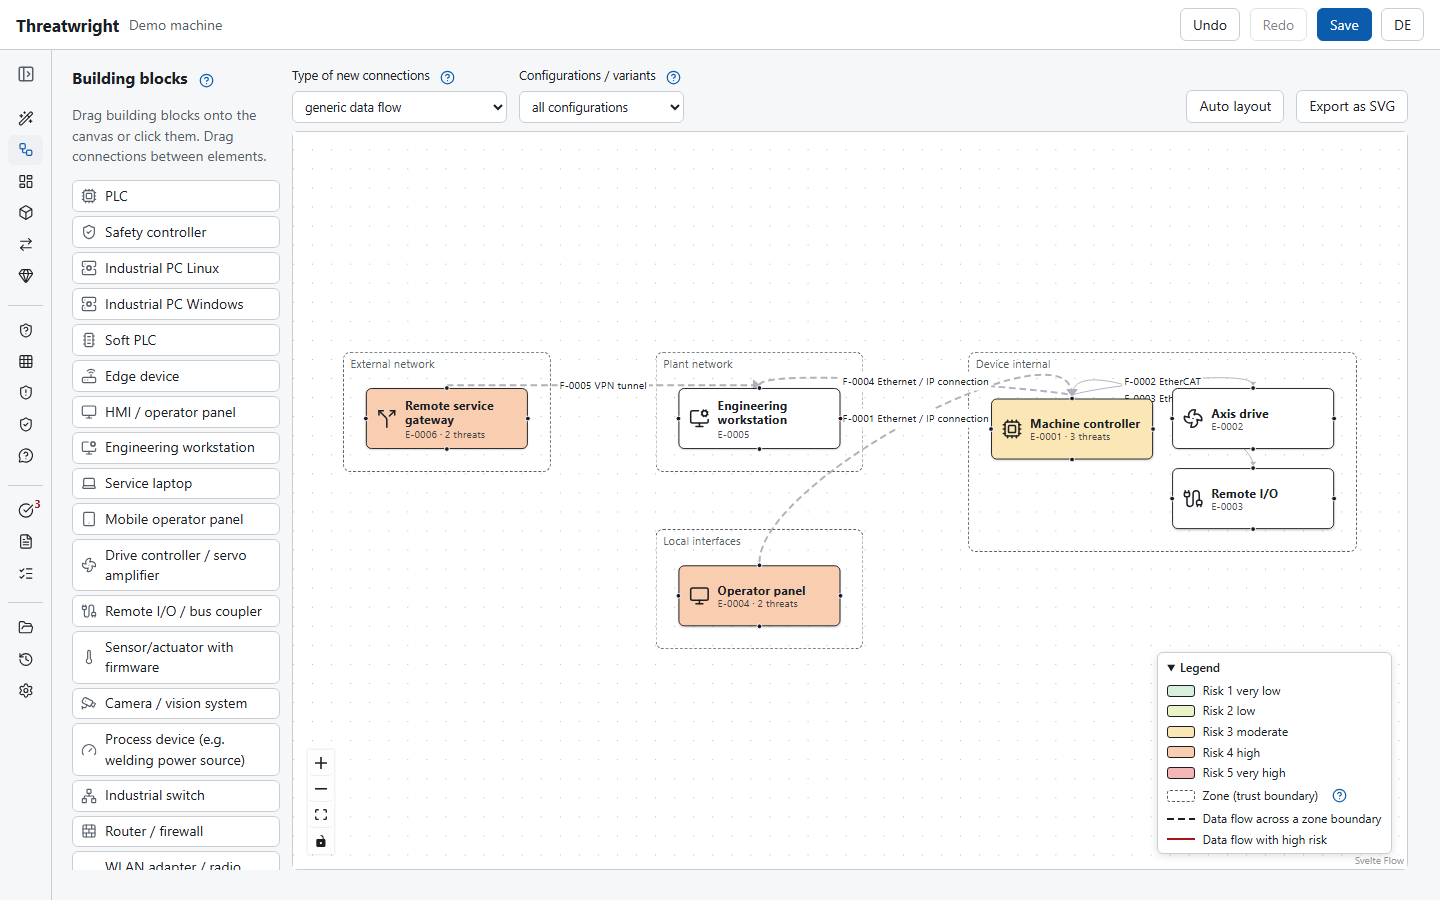
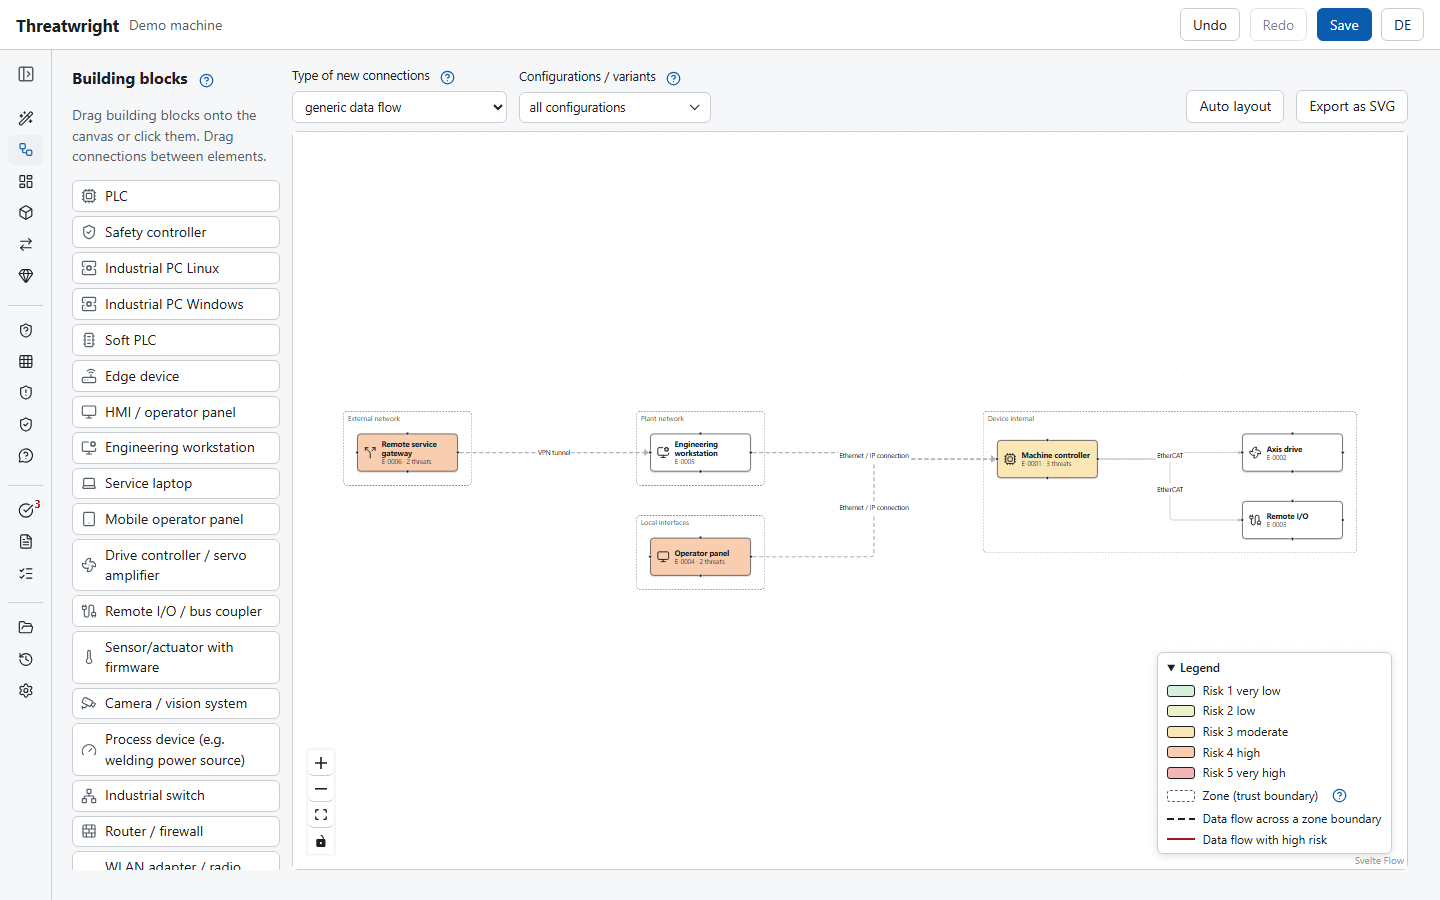
Diagram: multi-select variant filter, anchors follow the geometry (no jump to the top handle), orthogonal routed connections with label space in auto layout, controls readable in dark mode

diff --git a/app/src/lib/diagram/Canvas.svelte b/app/src/lib/diagram/Canvas.svelte
@@ -23,7 +23,7 @@
     onselect,
   }: {
     flowType: string
-    configuration: string
+    configuration: string[] // selected variants; empty = all
     types: ElementType[]
     onselect: (collection: 'elements' | 'flows', id: string | null) => void
   } = $props()
@@ -37,8 +37,17 @@
   let nodes = $state.raw<Node[]>([])
   let edges = $state.raw<Edge[]>([])
 
+  // objects without variants belong to every variant
   const visible = (configs: string[] | undefined) =>
-    !configuration || !configs?.length || configs.includes(configuration)
+    !configuration.length || !configs?.length || configs.some((c) => configuration.includes(c))
+
+  /** Handles facing each other: side by side -> right/left, above each other -> bottom/top. */
+  function sides(a: { x: number; y: number }, b: { x: number; y: number }): [string, string] {
+    const dx = b.x - a.x
+    const dy = b.y - a.y
+    if (Math.abs(dx) * H >= Math.abs(dy) * W) return dx >= 0 ? ['right', 'left'] : ['left', 'right']
+    return dy >= 0 ? ['bottom', 'top'] : ['top', 'bottom']
+  }
 
   function zoneNodes(positions: Map<string, { x: number; y: number }>): Node[] {
     const out: Node[] = []
@@ -94,11 +103,20 @@
     }))
     nodes = [...zoneNodes(positions), ...elementNodes]
     const zoneOf = new Map(app.objects('elements').map((e) => [e.id, e.zone]))
-    edges = app.objects('flows').map((f) => ({
+    edges = app.objects('flows').map((f) => {
+      // anchors follow the geometry, so a connection never jumps to a far side of the box
+      const [sourceHandle, targetHandle] =
+        positions.has(f.source) && positions.has(f.target)
+          ? sides(positions.get(f.source)!, positions.get(f.target)!)
+          : ['right', 'left']
+      return {
       id: f.id,
       source: f.source,
       target: f.target,
-      label: `${f.id} ${f.title}`,
+      sourceHandle,
+      targetHandle,
+      type: 'smoothstep',
+      label: f.title,
       markerEnd: { type: MarkerType.ArrowClosed },
       markerStart: f.bidirectional ? { type: MarkerType.ArrowClosed } : undefined,
       hidden: !visible(f.configurations),
@@ -106,7 +124,8 @@
         (model.max_risks[f.id] ?? 0) >= 4 ? 'high-risk' : '',
         zoneOf.get(f.source) !== zoneOf.get(f.target) ? 'cross-zone' : '',
       ].join(' '),
-    }))
+      }
+    })
   }
 
   /** Smallest zone box containing the point; zone boxes may nest or overlap. */
@@ -215,12 +234,20 @@
     const elk = new ELK()
     const elements = app.objects('elements')
     const leaf = (id: string) => ({ id, width: W, height: H })
+    // generous spacing: room for the connection labels and for lines between the boxes
+    const spacing = {
+      'elk.spacing.nodeNode': '50',
+      'elk.layered.spacing.nodeNodeBetweenLayers': '90',
+      'elk.spacing.edgeNode': '30',
+      'elk.spacing.edgeEdge': '20',
+      'elk.layered.spacing.edgeNodeBetweenLayers': '25',
+    }
     // Zones become compound nodes so ELK keeps trust boundaries apart; the padding
     // matches the box zoneNodes() draws around the members afterwards.
     const zones = (app.model?.meta.zones ?? [])
       .map((z) => ({
         id: `zone:${z.id}`,
-        layoutOptions: { 'elk.padding': `[top=${PAD + 14},left=${PAD},bottom=${PAD},right=${PAD}]` },
+        layoutOptions: { ...spacing, 'elk.padding': `[top=${PAD + 14},left=${PAD},bottom=${PAD},right=${PAD}]` },
         children: elements.filter((e) => e.zone === z.id).map((e) => leaf(e.id)),
       }))
       .filter((z) => z.children.length)
@@ -228,14 +255,21 @@
     const graph = await elk.layout({
       id: 'root',
       layoutOptions: {
+        ...spacing,
         'elk.algorithm': 'layered',
         'elk.direction': 'RIGHT',
         'elk.hierarchyHandling': 'INCLUDE_CHILDREN',
-        'elk.spacing.nodeNode': '60',
-        'elk.layered.spacing.nodeNodeBetweenLayers': '100',
+        'elk.edgeRouting': 'ORTHOGONAL',
+        'elk.edgeLabels.inline': 'true',
       },
       children: [...zones, ...elements.filter((e) => !zoned.has(e.id)).map((e) => leaf(e.id))],
-      edges: app.objects('flows').map((f) => ({ id: f.id, sources: [f.source], targets: [f.target] })),
+      // labels with their size, so ELK keeps space for them between the layers
+      edges: app.objects('flows').map((f) => ({
+        id: f.id,
+        sources: [f.source],
+        targets: [f.target],
+        labels: [{ text: f.title, width: f.title.length * 6.5 + 12, height: 18 }],
+      })),
     })
     const layout: Record<string, { x: number; y: number }> = {}
     for (const c of graph.children ?? []) {
@@ -255,6 +289,7 @@
     bind:edges
     {nodeTypes}
     connectionMode={ConnectionMode.Loose}
+    colorMode="system"
     deleteKey={null}
     fitView
     fitViewOptions={{ maxZoom: 1 }}
@@ -292,7 +327,15 @@
     color: var(--text);
     font-size: 11px;
   }
+  /* xyflow's own controls and labels in the app's colours (light and dark) */
   .canvas :global(.svelte-flow) {
     --xy-background-color: var(--surface);
+    --xy-controls-button-background-color: var(--surface);
+    --xy-controls-button-background-color-hover: var(--surface-2);
+    --xy-controls-button-color: var(--text);
+    --xy-controls-button-color-hover: var(--text);
+    --xy-controls-button-border-color: var(--border);
+    --xy-edge-label-background-color: var(--surface);
+    --xy-edge-label-color: var(--text);
   }
 </style>

diff --git a/app/src/lib/diagram/Diagram.svelte b/app/src/lib/diagram/Diagram.svelte
@@ -12,7 +12,17 @@
 
   let types = $state<ElementType[]>([])
   let flowType = $state('')
-  let configuration = $state('')
+  let configuration = $state<string[]>([]) // selected variants; empty = all
+  const configs = $derived(app.model?.meta.configurations ?? [])
+  // elements with variants of which none is selected; unassigned ones belong to every variant
+  const hiddenCount = $derived(
+    configuration.length
+      ? app.objects('elements').filter((e) => e.configurations?.length && !e.configurations.some((c: string) => configuration.includes(c))).length
+      : 0,
+  )
+  function toggleConfig(id: string, on: boolean) {
+    configuration = on ? [...configuration, id] : configuration.filter((c) => c !== id)
+  }
   let selected = $state<{ collection: 'elements' | 'flows'; id: string } | null>(null)
   let canvas: Canvas | undefined = $state()
   const lang = $derived(app.lang)
@@ -63,13 +73,36 @@
           {#each flowTypes as t}<option value={t.id}>{t.name[lang]}</option>{/each}
         </select>
       </label>
-      <label>
+      <div class="filter">
         <span>{tr(lang, 'configurations')} <Info term="configurations" /></span>
-        <select bind:value={configuration}>
-          <option value="">{tr(lang, 'all_configurations')}</option>
-          {#each app.model?.meta.configurations ?? [] as c}<option value={c.id}>{c.id} {c.title}</option>{/each}
-        </select>
-      </label>
+        <details class="dropdown" data-testid="config-filter">
+          <summary>
+            {configuration.length
+              ? configs.filter((c) => configuration.includes(c.id)).map((c) => c.title || c.id).join(', ')
+              : tr(lang, 'all_configurations')}
+            {#if hiddenCount}<span class="muted">· {hiddenCount} {tr(lang, 'hidden_count')}</span>{/if}
+          </summary>
+          <div class="menu">
+            {#each configs as c (c.id)}
+              <label class="check">
+                <input
+                  type="checkbox"
+                  checked={configuration.includes(c.id)}
+                  onchange={(e) => toggleConfig(c.id, e.currentTarget.checked)}
+                  data-testid="config-{c.id}"
+                />
+                {c.id} {c.title}
+              </label>
+            {:else}
+              <p class="muted">{tr(lang, 'no_configurations')}</p>
+            {/each}
+            {#if configuration.length}
+              <button type="button" class="link" onclick={() => (configuration = [])}>{tr(lang, 'show_all')}</button>
+            {/if}
+            <p class="muted small">{tr(lang, 'config_filter_help')}</p>
+          </div>
+        </details>
+      </div>
       <span class="spacer"></span>
       <button onclick={() => canvas?.autoLayout()} data-testid="auto-layout">{tr(lang, 'auto_layout')}</button>
       <button onclick={exportSvg}>{tr(lang, 'export_svg')}</button>
@@ -151,6 +184,62 @@
   }
   .toolbar select {
     width: auto;
+  }
+  .filter {
+    display: grid;
+    gap: 0.15rem;
+    font-size: 0.9em;
+    position: relative;
+  }
+  .dropdown summary {
+    list-style: none;
+    cursor: pointer;
+    min-width: 12rem;
+    padding: 0.35rem 1.8rem 0.35rem 0.6rem;
+    border: 1px solid var(--border);
+    border-radius: var(--radius);
+    background: var(--surface);
+    position: relative;
+  }
+  .dropdown summary::after {
+    content: '';
+    position: absolute;
+    right: 0.7rem;
+    top: 50%;
+    width: 0.4rem;
+    height: 0.4rem;
+    border-right: 1.5px solid currentColor;
+    border-bottom: 1.5px solid currentColor;
+    transform: translateY(-70%) rotate(45deg);
+  }
+  .dropdown[open] summary {
+    border-color: var(--accent);
+  }
+  .menu {
+    position: absolute;
+    z-index: 10;
+    margin-top: 0.25rem;
+    min-width: 16rem;
+    max-width: 24rem;
+    display: grid;
+    gap: 0.35rem;
+    padding: 0.6rem 0.75rem;
+    background: var(--surface);
+    border: 1px solid var(--border);
+    border-radius: var(--radius);
+    box-shadow: 0 8px 24px rgb(0 0 0 / 0.18);
+  }
+  .menu .check {
+    display: flex;
+    gap: 0.45rem;
+    align-items: center;
+  }
+  .menu .check input {
+    width: auto;
+  }
+  .menu .small {
+    margin: 0;
+    font-size: 0.85em;
   }
   .spacer {
     flex: 1;

diff --git a/app/src/i18n.ts b/app/src/i18n.ts
@@ -42,6 +42,11 @@ const de = {
   reload_discard: 'Neu laden und eigene Änderungen verwerfen',
   ignore: 'Ignorieren',
   reloaded: 'Externe Änderungen geladen',
+  hidden_count: 'ausgeblendet',
+  show_all: 'Alle anzeigen',
+  no_configurations: 'Keine Ausbaustufen / Varianten angelegt (Einrichtung, Schritt 1).',
+  config_filter_help:
+    'Zeigt Elemente und Verbindungen der gewählten Varianten. Was keiner Variante zugeordnet ist, gilt für alle und bleibt sichtbar.',
   current_project: 'Geöffnetes Projekt',
   download_zip: 'Als .zip herunterladen',
   download_help: 'Lädt den gespeicherten Stand des Projekts herunter, z. B. um lokal oder mit Git weiterzuarbeiten.',
@@ -273,6 +278,11 @@ const en: Record<Key, string> = {
   reload_discard: 'Reload and discard my changes',
   ignore: 'Ignore',
   reloaded: 'External changes loaded',
+  hidden_count: 'hidden',
+  show_all: 'Show all',
+  no_configurations: 'No configurations / variants defined (setup, step 1).',
+  config_filter_help:
+    'Shows elements and connections of the selected variants. Anything not assigned to a variant applies to all and stays visible.',
   current_project: 'Open project',
   download_zip: 'Download as .zip',
   download_help: 'Downloads the saved state of the project, e.g. to continue locally or with Git.',

diff --git a/app/src/lib/Setup.svelte b/app/src/lib/Setup.svelte
@@ -242,7 +242,7 @@
   <p class="muted small">{t.preview_help}</p>
   <div class="preview" data-testid="setup-preview">
     <SvelteFlowProvider>
-      <Canvas flowType={type} configuration="" types={elementTypes} onselect={() => {}} />
+      <Canvas flowType={type} configuration={[]} types={elementTypes} onselect={() => {}} />
     </SvelteFlowProvider>
   </div>
 {/snippet}

diff --git a/tests/e2e/test_diagram_zones.py b/tests/e2e/test_diagram_zones.py
@@ -22,6 +22,19 @@ def _overlap(a: dict[str, float], b: dict[str, float]) -> bool:
     )
 
 
+def test_variant_filter_is_a_multi_select(gui: str, page: Page) -> None:
+    page.goto(gui)
+    page.get_by_test_id("nav-diagram").click()
+    expect(page.get_by_test_id("node-E-0002")).to_be_visible()
+    filt = page.get_by_test_id("config-filter")
+    filt.locator("summary").click()
+    page.get_by_test_id("config-K-A").check()
+    expect(page.get_by_test_id("node-E-0002")).to_be_hidden()  # belongs to K-B only
+    expect(filt.locator("summary")).to_contain_text("1")  # one element hidden
+    page.get_by_test_id("config-K-B").check()
+    expect(page.get_by_test_id("node-E-0002")).to_be_visible()
+
+
 def test_auto_layout_and_zone_assignment(
     ui: dict[str, str], gui: str, page: Page, project_dir: Path
 ) -> None:
